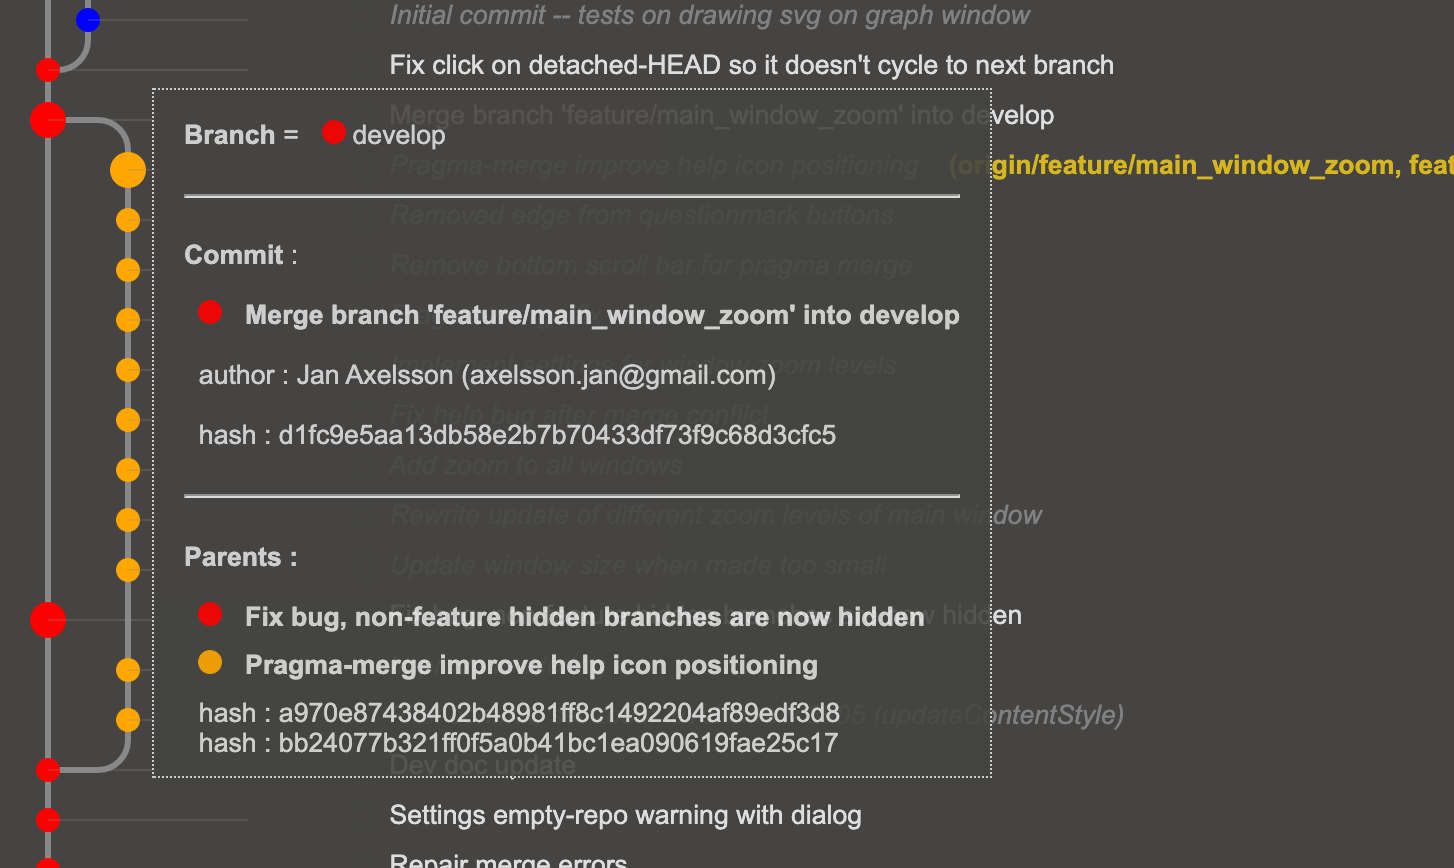
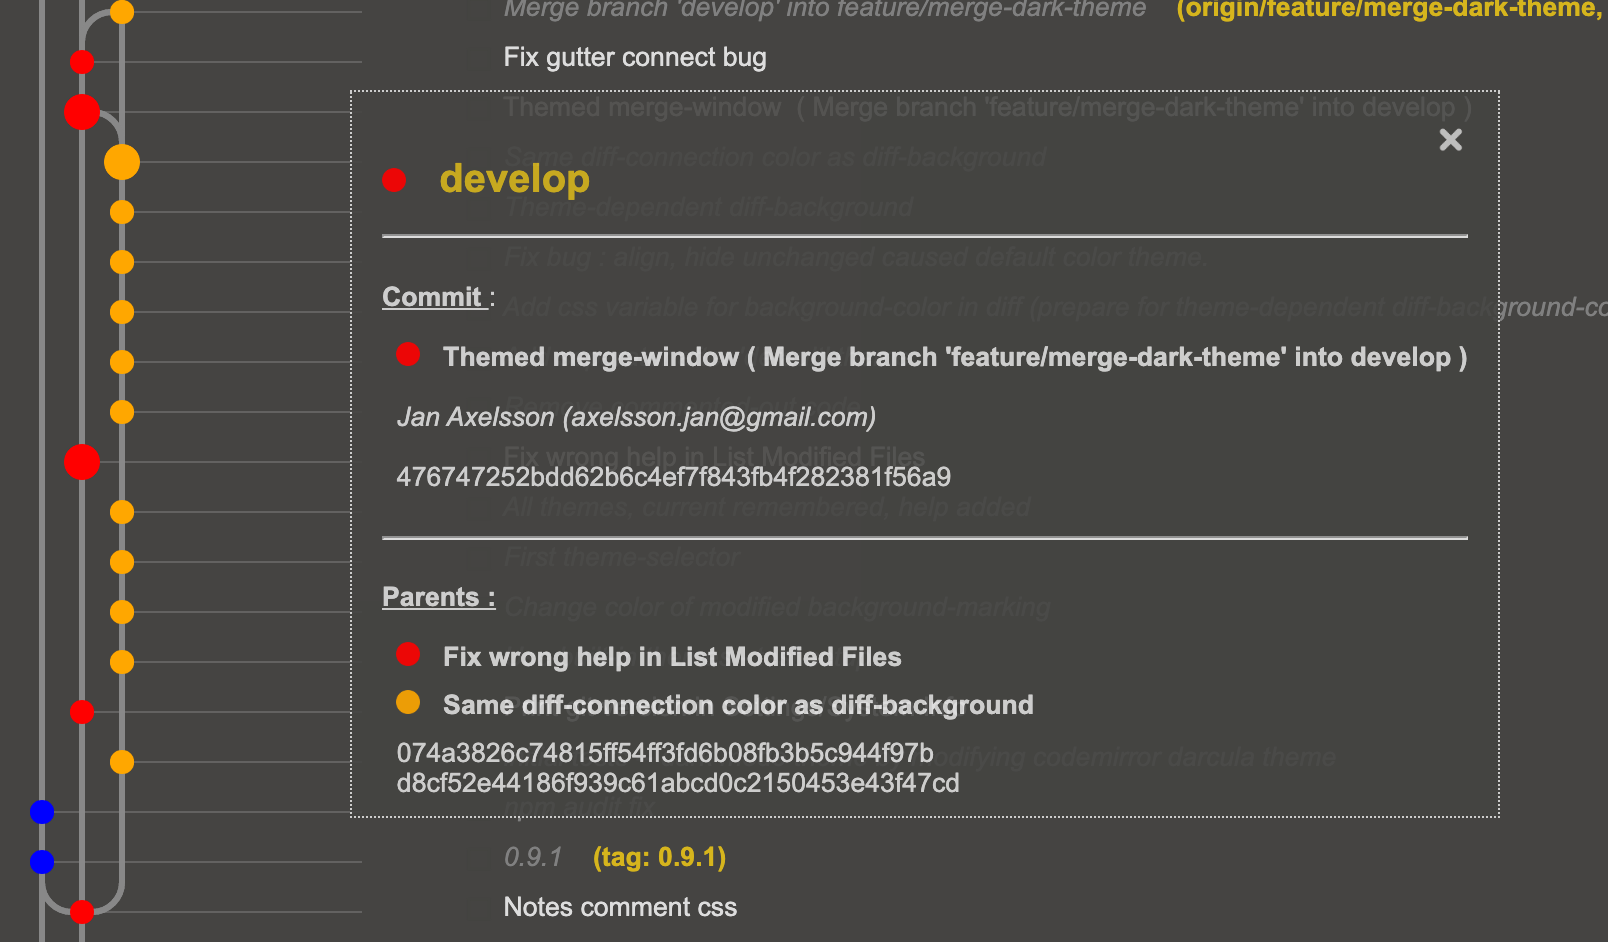
Graph node info - window stays open until pressing close-button
Opens when hovering circle.  Staying-opened allows for copy info to clipboard

diff --git a/graph.js b/graph.js
@@ -392,9 +392,16 @@ function makeMouseOverNodeCallbacks(){  // Callbacks to show info on mouseover c
 }       
     async function mouseOverNodeCallback(e) {
             
+            // Clear old window if entering new one
+            if (lockedNodeInfoWindow == true){
+                closeInfoBox();
+            }
+            lockedNodeInfoWindow = true;
+            
+            // Set mouse position
             isMouseOverCommitCircle = true;
             
-            resetNodeSize(); // Clear resized nodes
+            resetNodeSize(); // Clear previously resized nodes
             
             console.log(e);
             let hash = e.toElement.id.substring(4);  // Because element id starts with "img_" followed by hash
@@ -418,7 +425,7 @@ function makeMouseOverNodeCallbacks(){  // Callbacks to show info on mouseover c
             
             // Close button
             html += `<img id="close-icon" style="width: 17px; float: right;"
-                onclick="mouseLeavingNodeCallback()" 
+                onclick="lockedNodeInfoWindow = false; mouseLeavingNodeCallback()" 
                 onmouseover="updateImageUrl('close-icon', 'images/button_close_hover.png');" 
                 onmouseout= "updateImageUrl('close-icon', 'images/button_close_black.png');" 
                 src="images/button_close_black.png">`
@@ -545,9 +552,13 @@ function makeMouseOverNodeCallbacks(){  // Callbacks to show info on mouseover c
         }; 
 
     var isMouseOverCommitCircle = false;  // Used to stop infoBox from getting caught when leaving a commit circle before infoBox is drawn
+    var lockedNodeInfoWindow = false;     // Used to keep node info window open until close-button pressed.
     function mouseLeavingNodeCallback(){
-        closeInfoBox();
         isMouseOverCommitCircle = false;
+        if (lockedNodeInfoWindow == true){
+            return
+        }
+        closeInfoBox();
         return
     };
     // utility functions

diff --git a/HELP/Graph.html b/HELP/Graph.html
@@ -159,7 +159,7 @@
         <figure>
             <img src="images/Screenshot_graph_commit_info_dark.png" style="zoom:33%;filter: invert( 0% ); ">
             <figcaption>
-                Commit info box displayed when hovering over a commit.
+                Commit info box displayed when hovering over a commit. Close by pressing X in top right corner.
             </figcaption>
         </figure>
 
